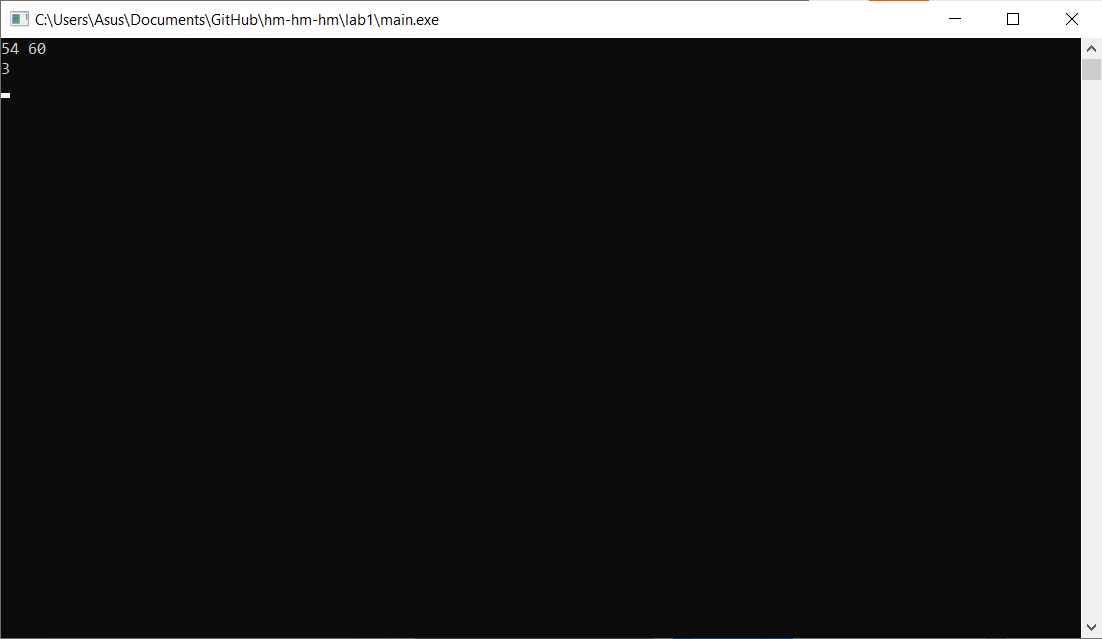
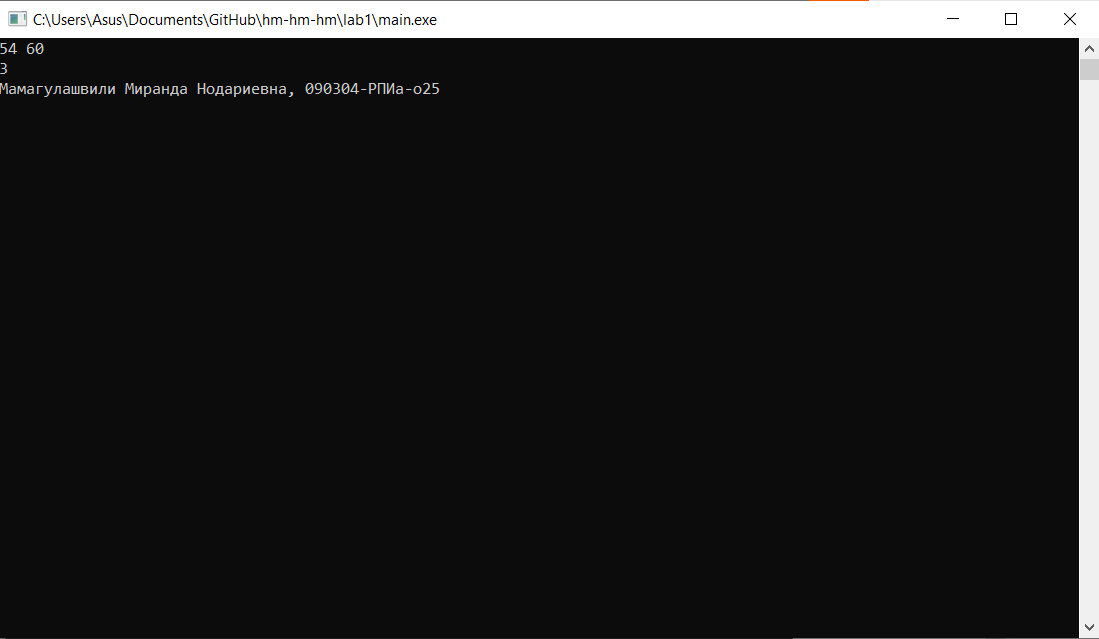
Вывод автора

Changed region(s): [[0.0, 0.0, 0.4022, 0.1487]]

diff --git a/lab1/main.cpp b/lab1/main.cpp
@@ -60,11 +60,14 @@ long long solve(long long a, long long b) {
 }
 
 int main() {
+    setlocale(LC_ALL, ".UTF-8");
+
     long long a, b;
 
     if (!(cin >> a >> b)) return -1;
 
     cout << solve(a, b) << endl;
+    cout << "Мамагулашвили Миранда Нодариевна, 090304-РПИа-о25" << endl;
 
     getchar();
     while(getchar() != '\n');
